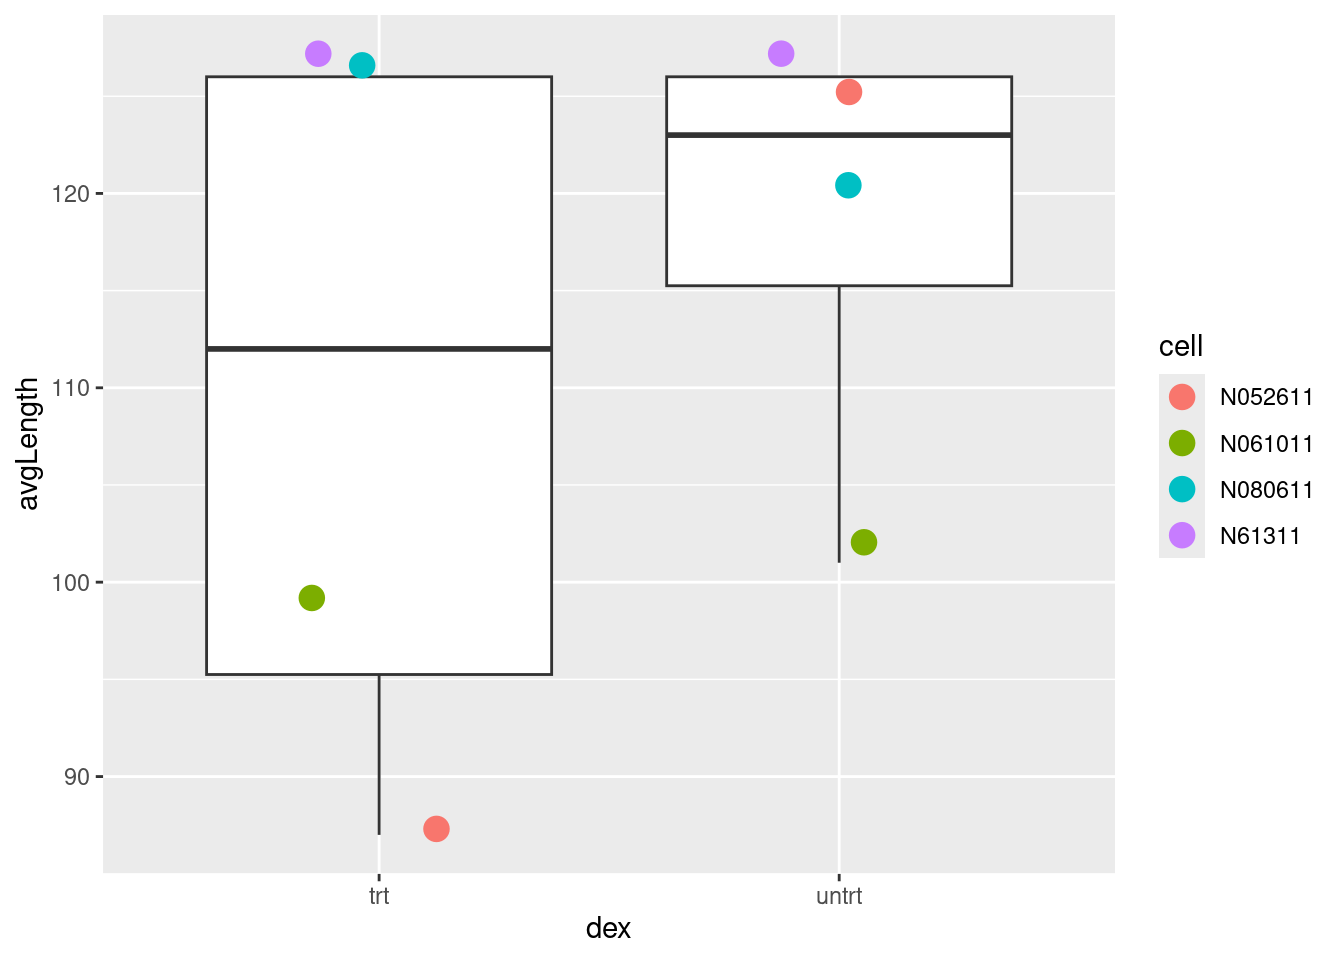
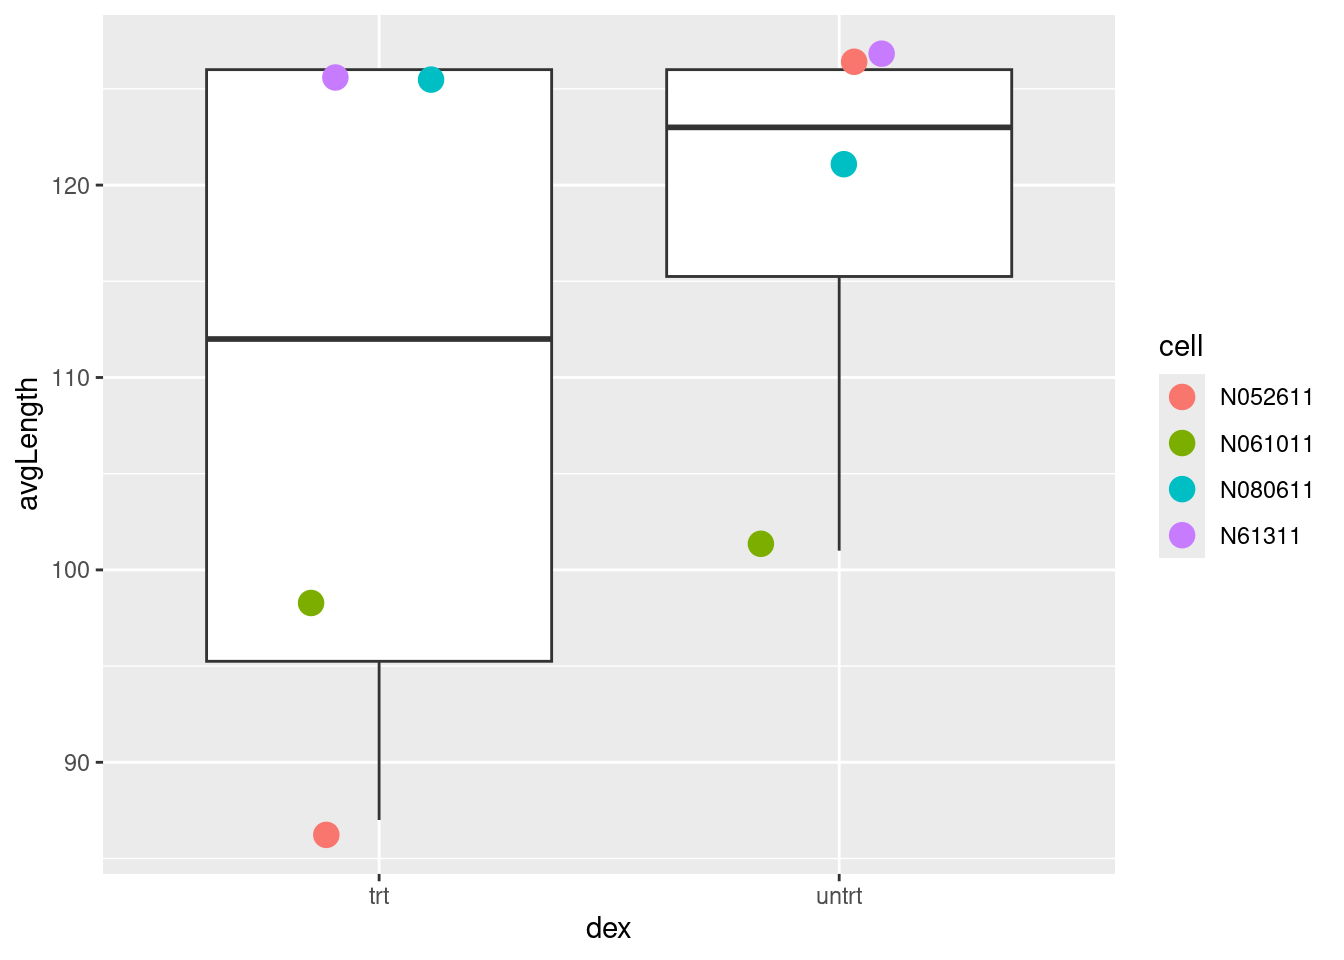
don't include section on plotting

diff --git a/content/post/2024-08-11-tidy-dataframes-but-not-tibbles/index.en.html b/content/post/2024-08-11-tidy-dataframes-but-not-tibbles/index.en.html
@@ -641,17 +641,17 @@ d</code></pre>
 ## Volvo 142E                4       109         1         4     121.0 chrX:32-41
 ##                          grY                    nl
 ##                    &lt;GRanges&gt;         &lt;NumericList&gt;
-## Mazda RX4          chrY:1-10 -1.72,-0.23,-1.00,...
-## Mazda RX4 Wag      chrY:2-11    0.74,0.93,0.80,...
-## Datsun 710         chrY:3-12 -2.29,-1.13,-0.08,...
-## Hornet 4 Drive     chrY:4-13      0.00,-0.32, 0.21
-## Hornet Sportabout  chrY:5-14      0.15,-0.04,-0.50
+## Mazda RX4          chrY:1-10    1.94,0.80,1.02,...
+## Mazda RX4 Wag      chrY:2-11  0.90, 1.52,-0.46,...
+## Datsun 710         chrY:3-12    1.64,0.47,0.66,...
+## Hornet 4 Drive     chrY:4-13      0.06, 1.93,-1.11
+## Hornet Sportabout  chrY:5-14     -1.01,-0.77,-0.04
 ## ...                      ...                   ...
-## Lotus Europa      chrY:28-37 -0.77, 0.95,-0.12,...
-## Ford Pantera L    chrY:29-38    0.74,0.56,0.01,...
-## Ferrari Dino      chrY:30-39    0.55,1.49,1.72,...
-## Maserati Bora     chrY:31-40 -0.68,-0.33, 0.85,...
-## Volvo 142E        chrY:32-41  1.29,-0.61, 0.84,...</code></pre>
+## Lotus Europa      chrY:28-37 -0.22, 0.66,-1.10,...
+## Ford Pantera L    chrY:29-38 -1.38, 0.74, 1.24,...
+## Ferrari Dino      chrY:30-39 -0.81, 1.10, 0.85,...
+## Maserati Bora     chrY:31-40    1.59,0.65,1.32,...
+## Volvo 142E        chrY:32-41    1.07,0.78,0.00,...</code></pre>
 <p>and add some more metadata about the <code>colData</code> columns</p>
 <pre class="r"><code>mcols(colData(se)) &lt;- DataFrame(
   position = paste0(&quot;column &quot;, 1:9), 
@@ -823,14 +823,14 @@ cdq</code></pre>
 ## SRR1039521 GSM1275875  N061011    trt      untrt SRR1039521        98
 ##            Experiment    Sample    BioSample   quality
 ##              &lt;factor&gt;  &lt;factor&gt;     &lt;factor&gt; &lt;numeric&gt;
-## SRR1039508  SRX384345 SRS508568 SAMN02422669  0.296219
-## SRR1039509  SRX384346 SRS508567 SAMN02422675  0.367130
-## SRR1039512  SRX384349 SRS508571 SAMN02422678  0.807582
-## SRR1039513  SRX384350 SRS508572 SAMN02422670  0.536167
-## SRR1039516  SRX384353 SRS508575 SAMN02422682  0.102532
-## SRR1039517  SRX384354 SRS508576 SAMN02422673  0.598395
-## SRR1039520  SRX384357 SRS508579 SAMN02422683  0.825653
-## SRR1039521  SRX384358 SRS508580 SAMN02422677  0.785908</code></pre>
+## SRR1039508  SRX384345 SRS508568 SAMN02422669  0.386436
+## SRR1039509  SRX384346 SRS508567 SAMN02422675  0.566096
+## SRR1039512  SRX384349 SRS508571 SAMN02422678  0.327839
+## SRR1039513  SRX384350 SRS508572 SAMN02422670  0.744911
+## SRR1039516  SRX384353 SRS508575 SAMN02422682  0.331616
+## SRR1039517  SRX384354 SRS508576 SAMN02422673  0.728328
+## SRR1039520  SRX384357 SRS508579 SAMN02422683  0.626803
+## SRR1039521  SRX384358 SRS508580 SAMN02422677  0.248757</code></pre>
 <pre class="r"><code>mcols(cdq)</code></pre>
 <pre class="bg-success"><code>## DataFrame with 10 rows and 2 columns
 ##               position     is_ID
@@ -853,8 +853,8 @@ be removed</p>
   group_by(dex) |&gt; 
   summarise(avg_quality = mean(quality))</code></pre>
 <pre class="bg-success"><code>##     dex avg_quality
-## 1   trt   0.5718999
-## 2 untrt   0.5079965</code></pre>
+## 1   trt   0.5720231
+## 2 untrt   0.4181736</code></pre>
 <p>but rearranging them is fine</p>
 <pre class="r"><code>cdq |&gt; 
   arrange(desc(quality)) |&gt; 
@@ -862,16 +862,16 @@ be removed</p>
 <pre class="bg-success"><code>## DataFrame with 4 rows and 10 columns
 ##            SampleName     cell      dex    albut        Run avgLength
 ##              &lt;factor&gt; &lt;factor&gt; &lt;factor&gt; &lt;factor&gt;   &lt;factor&gt; &lt;integer&gt;
-## SRR1039520 GSM1275874  N061011    untrt    untrt SRR1039520       101
-## SRR1039512 GSM1275866  N052611    untrt    untrt SRR1039512       126
-## SRR1039521 GSM1275875  N061011    trt      untrt SRR1039521        98
+## SRR1039513 GSM1275867  N052611    trt      untrt SRR1039513        87
 ## SRR1039517 GSM1275871  N080611    trt      untrt SRR1039517       126
+## SRR1039520 GSM1275874  N061011    untrt    untrt SRR1039520       101
+## SRR1039509 GSM1275863  N61311     trt      untrt SRR1039509       126
 ##            Experiment    Sample    BioSample   quality
 ##              &lt;factor&gt;  &lt;factor&gt;     &lt;factor&gt; &lt;numeric&gt;
-## SRR1039520  SRX384357 SRS508579 SAMN02422683  0.825653
-## SRR1039512  SRX384349 SRS508571 SAMN02422678  0.807582
-## SRR1039521  SRX384358 SRS508580 SAMN02422677  0.785908
-## SRR1039517  SRX384354 SRS508576 SAMN02422673  0.598395</code></pre>
+## SRR1039513  SRX384350 SRS508572 SAMN02422670  0.744911
+## SRR1039517  SRX384354 SRS508576 SAMN02422673  0.728328
+## SRR1039520  SRX384357 SRS508579 SAMN02422683  0.626803
+## SRR1039509  SRX384346 SRS508567 SAMN02422675  0.566096</code></pre>
 <p>One thing that <code>DataFrame</code> lacks - as does <code>data.frame</code> - is the concept of groups.
 {tibble} resolved this by adding a <code>"groups"</code> attribute, so I did the same in {DFplyr} -
 I don’t own {S4Vectors}, so I had to mask some functions in order to build in this
@@ -984,17 +984,17 @@ d</code></pre>
 ## Volvo 142E                4       109         1         4     121.0 chrX:32-41
 ##                          grY                    nl  overlaps   quality
 ##                    &lt;GRanges&gt;         &lt;NumericList&gt; &lt;integer&gt; &lt;numeric&gt;
-## Mazda RX4          chrY:1-10 -1.72,-0.23,-1.00,...         4  0.601271
-## Mazda RX4 Wag      chrY:2-11    0.74,0.93,0.80,...         4  0.235676
-## Datsun 710         chrY:3-12 -2.29,-1.13,-0.08,...         4  0.601253
-## Hornet 4 Drive     chrY:4-13      0.00,-0.32, 0.21         4  0.922080
-## Hornet Sportabout  chrY:5-14      0.15,-0.04,-0.50         4  0.381433
+## Mazda RX4          chrY:1-10    1.94,0.80,1.02,...         4  0.144992
+## Mazda RX4 Wag      chrY:2-11  0.90, 1.52,-0.46,...         4  0.726243
+## Datsun 710         chrY:3-12    1.64,0.47,0.66,...         4  0.146000
+## Hornet 4 Drive     chrY:4-13      0.06, 1.93,-1.11         4  0.695177
+## Hornet Sportabout  chrY:5-14     -1.01,-0.77,-0.04         4  0.921556
 ## ...                      ...                   ...       ...       ...
-## Lotus Europa      chrY:28-37 -0.77, 0.95,-0.12,...         0 0.8200803
-## Ford Pantera L    chrY:29-38    0.74,0.56,0.01,...         0 0.5455487
-## Ferrari Dino      chrY:30-39    0.55,1.49,1.72,...         0 0.8182348
-## Maserati Bora     chrY:31-40 -0.68,-0.33, 0.85,...         0 0.0362457
-## Volvo 142E        chrY:32-41  1.29,-0.61, 0.84,...         0 0.4937573
+## Lotus Europa      chrY:28-37 -0.22, 0.66,-1.10,...         0  0.371289
+## Ford Pantera L    chrY:29-38 -1.38, 0.74, 1.24,...         0  0.420842
+## Ferrari Dino      chrY:30-39 -0.81, 1.10, 0.85,...         0  0.890471
+## Maserati Bora     chrY:31-40    1.59,0.65,1.32,...         0  0.395305
+## Volvo 142E        chrY:32-41    1.07,0.78,0.00,...         0  0.532688
 ##                      nearest
 ##                    &lt;GRanges&gt;
 ## Mazda RX4          chrX:1-10
@@ -1014,18 +1014,24 @@ d</code></pre>
   filter(overlaps &gt; 0) |&gt; 
   slice(1:4)</code></pre>
 <pre class="bg-success"><code>## DataFrame with 4 rows and 11 columns
-##                      cyl        hp        am      gear      disp        grX
-##                &lt;numeric&gt; &lt;numeric&gt; &lt;numeric&gt; &lt;numeric&gt; &lt;numeric&gt;  &lt;GRanges&gt;
-## Hornet 4 Drive         6       110         0         3     258.0  chrX:4-13
-## Merc 450SLC            8       180         0         3     275.8 chrX:14-23
-## Mazda RX4              6       110         1         4     160.0  chrX:1-10
-## Datsun 710             4        93         1         4     108.0  chrX:3-12
-##                       grY                    nl  overlaps   quality    nearest
-##                 &lt;GRanges&gt;         &lt;NumericList&gt; &lt;integer&gt; &lt;numeric&gt;  &lt;GRanges&gt;
-## Hornet 4 Drive  chrY:4-13      0.00,-0.32, 0.21         4  0.922080  chrX:4-13
-## Merc 450SLC    chrY:14-23        0.68,1.26,0.44         1  0.628694 chrX:14-23
-## Mazda RX4       chrY:1-10 -1.72,-0.23,-1.00,...         4  0.601271  chrX:1-10
-## Datsun 710      chrY:3-12 -2.29,-1.13,-0.08,...         4  0.601253  chrX:3-12</code></pre>
+##                         cyl        hp        am      gear      disp        grX
+##                   &lt;numeric&gt; &lt;numeric&gt; &lt;numeric&gt; &lt;numeric&gt; &lt;numeric&gt;  &lt;GRanges&gt;
+## Merc 280C                 6       123         0         4     167.6 chrX:11-20
+## Merc 450SL                8       180         0         3     275.8 chrX:13-22
+## Merc 450SE                8       180         0         3     275.8 chrX:12-21
+## Hornet Sportabout         8       175         0         3     360.0  chrX:5-14
+##                          grY                    nl  overlaps   quality
+##                    &lt;GRanges&gt;         &lt;NumericList&gt; &lt;integer&gt; &lt;numeric&gt;
+## Merc 280C         chrY:11-20 -0.08, 0.55,-0.59,...         4  0.990185
+## Merc 450SL        chrY:13-22      1.23,-0.35, 0.04         2  0.979190
+## Merc 450SE        chrY:12-21      2.60, 0.98,-1.50         3  0.958658
+## Hornet Sportabout  chrY:5-14     -1.01,-0.77,-0.04         4  0.921556
+##                      nearest
+##                    &lt;GRanges&gt;
+## Merc 280C         chrX:11-20
+## Merc 450SL        chrX:13-22
+## Merc 450SE        chrX:12-21
+## Hornet Sportabout  chrX:5-14</code></pre>
 <p>You don’t necessarily need to extract the <code>DataFrame</code> into a variable, either -
 working with the extraction directly could be cleaner in some cases</p>
 <pre class="r"><code>count(colData(se), cell)</code></pre>
@@ -1036,18 +1042,16 @@ working with the extraction directly could be cleaner in some cases</p>
 ## 2  N061011         2
 ## 3  N080611         2
 ## 4  N61311          2</code></pre>
-</div>
-<div id="you-want-more" class="section level2">
-<h2>You Want More?</h2>
-<p>When I first wrote {DFplyr} a <code>DataFrame</code> wouldn’t work in {ggplot2}, but it seems
-it does now, so we can easily plot sample metadata</p>
-<pre class="r"><code>library(ggplot2)
-
-ggplot(colData(airway), aes(dex, avgLength)) + 
-  geom_boxplot() +
-  geom_point(aes(col = cell), position = position_jitter(width = 0.2), size = 4)</code></pre>
-<p><img src="{{< blogdown/postref >}}index.en_files/figure-html/unnamed-chunk-50-1.png" width="672" /></p>
-<p>I suppose I can remove the support from {DFplyr} now.</p>
+<!-- ## Plotting -->
+<!-- When I first wrote {DFplyr} a `DataFrame` wouldn't work in {ggplot2}, but it seems -->
+<!-- it does now, so we can easily plot sample metadata -->
+<!-- ```{r} -->
+<!-- library(ggplot2) -->
+<!-- ggplot(colData(airway), aes(dex, avgLength)) + -->
+<!--   geom_boxplot() + -->
+<!--   geom_point(aes(col = cell), position = position_jitter(width = 0.2), size = 4) -->
+<!-- ``` -->
+<!-- I suppose I can remove the support from {DFplyr} now. -->
 </div>
 <div id="other-ways-to-filter" class="section level2">
 <h2>Other Ways to Filter</h2>
@@ -1260,7 +1264,7 @@ be useful to you, feel free to use the comment section below, or hit me up on
 ##  BiocParallel               1.36.0      2023-10-24 [1] Bioconductor
 ##  Biostrings                 2.70.3      2024-03-13 [1] Bioconductor 3.18 (R 4.3.3)
 ##  bitops                     1.0-7       2021-04-24 [1] CRAN (R 4.3.2)
-##  blogdown                   1.18        2023-06-19 [1] CRAN (R 4.3.2)
+##  blogdown                   1.19        2024-02-01 [1] CRAN (R 4.3.3)
 ##  bookdown                   0.36        2023-10-16 [1] CRAN (R 4.3.2)
 ##  bslib                      0.6.1       2023-11-28 [3] CRAN (R 4.3.2)
 ##  cachem                     1.0.8       2023-05-01 [3] CRAN (R 4.3.0)
@@ -1279,7 +1283,6 @@ be useful to you, feel free to use the comment section below, or hit me up on
 ##  ellipsis                   0.3.2       2021-04-29 [3] CRAN (R 4.1.1)
 ##  evaluate                   0.23        2023-11-01 [3] CRAN (R 4.3.2)
 ##  fansi                      1.0.6       2023-12-08 [1] CRAN (R 4.3.3)
-##  farver                     2.1.2       2024-05-13 [1] CRAN (R 4.3.3)
 ##  fastmap                    1.1.1       2023-02-24 [3] CRAN (R 4.2.2)
 ##  fs                         1.6.3       2023-07-20 [3] CRAN (R 4.3.1)
 ##  generics                   0.1.3       2022-07-05 [3] CRAN (R 4.2.1)
@@ -1287,10 +1290,9 @@ be useful to you, feel free to use the comment section below, or hit me up on
 ##  GenomeInfoDbData           1.2.11      2024-06-21 [1] Bioconductor
 ##  GenomicAlignments          1.38.2      2024-01-16 [1] Bioconductor 3.18 (R 4.3.3)
 ##  GenomicRanges            * 1.54.1      2023-10-29 [1] Bioconductor
-##  ggplot2                  * 3.5.1       2024-04-23 [1] CRAN (R 4.3.3)
+##  ggplot2                    3.5.1       2024-04-23 [1] CRAN (R 4.3.3)
 ##  glue                       1.7.0       2024-01-09 [1] CRAN (R 4.3.3)
 ##  gtable                     0.3.5       2024-04-22 [1] CRAN (R 4.3.3)
-##  highr                      0.9         2021-04-16 [3] CRAN (R 4.1.1)
 ##  htmltools                  0.5.7       2023-11-03 [3] CRAN (R 4.3.2)
 ##  htmlwidgets                1.6.2       2023-03-17 [1] CRAN (R 4.3.2)
 ##  httpuv                     1.6.12      2023-10-23 [1] CRAN (R 4.3.2)
@@ -1300,7 +1302,6 @@ be useful to you, feel free to use the comment section below, or hit me up on
 ##  jquerylib                  0.1.4       2021-04-26 [3] CRAN (R 4.1.2)
 ##  jsonlite                   1.8.8       2023-12-04 [3] CRAN (R 4.3.2)
 ##  knitr                      1.45        2023-10-30 [3] CRAN (R 4.3.2)
-##  labeling                   0.4.3       2023-08-29 [1] CRAN (R 4.3.3)
 ##  later                      1.3.1       2023-05-02 [1] CRAN (R 4.3.2)
 ##  lattice                    0.22-5      2023-10-24 [4] CRAN (R 4.3.1)
 ##  lazyeval                   0.2.2       2019-03-15 [1] CRAN (R 4.3.2)
